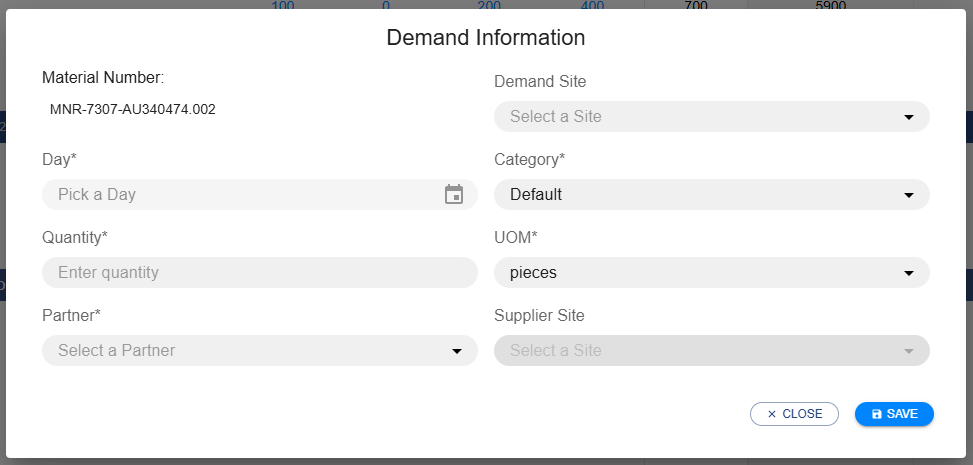
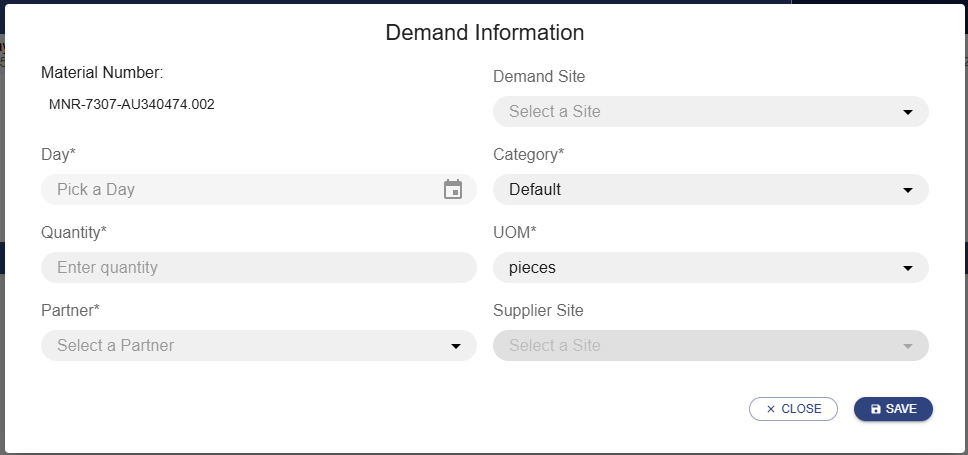
fix: consistency and clarity of user guide

diff --git a/frontend/src/features/material-details/components/DemandCategoryModal.tsx b/frontend/src/features/material-details/components/DemandCategoryModal.tsx
@@ -356,6 +356,7 @@ export const DemandCategoryModal = ({ open, mode, onClose, onSave, demand, deman
                         {mode === 'create' && (
                             <Button
                                 variant="contained"
+                                color="primary"
                                 sx={{ display: 'flex', gap: '.25rem' }}
                                 onClick={() => handleSaveClick(temporaryDemand)}
                             >

diff --git a/docs/user/User_Guide.md b/docs/user/User_Guide.md
@@ -7,7 +7,7 @@ This guide explains the overall masks that may be used by different roles.
 
 In the following the views are explained.
 
-## Material List View
+## Material list view
 
 ![Material List View](img/materials_list_view.png)
 The Material List View allows users to quickly search and filter through materials.
@@ -22,7 +22,7 @@ It includes the following:
 The user can find a specific material by using the search bar. The user can search through the materials using the material name or number. By default, it will be searching in any (incoming and outgoing) material direction. The user can choose a specific direction with the “Direction” dropdown.
 By using the “Direction” dropdown menu the user can chose to narrow their search to view incoming materials, outgoing materials or both. The “Direction” dropdown can also be used to list all incoming or outgoing materials by leaving the search bar empty.
 
-The user can further sort the materials by model number, material name, days of supply, direction and when they were last updated by clicking on the appropriate headers of the table.
+The user can further sort the materials by material number, material name, days of supply, direction and when they were last updated by clicking on the appropriate headers of the table.
 The user can select a material by clicking on it. This will open the Materials Detail View.
 
 ## Materials detail view
@@ -33,10 +33,10 @@ The Material Detail View allows users to see a detailed view of the selected mat
 
 It includes several expandable nested tables presented in the following order, based on the direction of the material:
 
-- Outgoing materials
+- When seeing material details for outgoing materials, the following summaries are shown:
   1. Production summary for the material
   2. Production summary at a specific location
-- Incoming materials
+- When seeing materials for the incoming direction, the following summaries are shown:
   1. Demand summary for the material
   2. Demand summary at a specific location
 
@@ -44,11 +44,11 @@ It includes several expandable nested tables presented in the following order, b
 
 Each overall or location specific summary table is separated into the following sections depending on the direction:
 
-- Outgoing materials
+- When seeing materials for the outgoing direction, the following summaries are shown:
   1. A production summary for the material
   2. A collapsible demand summary per customer
   3. A collapsible demand summary per specific location of a customer
-- Incoming materials
+- When seeing materials for the incoming direction, the following summaries are shown:
   1. A demand summary for the material
   2. A collapsible production summary per supplier
   3. A collapsible production summary per specific location of a supplier
@@ -134,7 +134,7 @@ To add a new production output, the user:
 2. Selects the partner to allocate the production to
 3. Enters the estimated time of completion
 4. Enters the quantity produced and the unit of measurement
-5. (Optional) Fills the customer order number, customer position number and supplier order number
+5. (optional) Fills the customer order number, customer position number and supplier order number
 6. Clicks the "save" button
 
 A notification in the top right of the user's screen will inform them, if saving was successful. Afterwards the user will see the newly added production output reflected in their detailed material overview.
@@ -150,13 +150,13 @@ To add a new delivery the user:
 1. Selects the partner for the delivery
 2. Selects the incoterms for the delivery
 3. Selects the quantity and unit of measurement
-4. Enters the tracking number
+4. (optional) Enters the tracking number
 5. Chooses the origin and destination site
 6. Selects the departure type
 7. Selects the date of departure
 8. Selects the arrival type
 9. Selects the date of arrival
-10. (Optional) Fills the customer order number, customer position number and supplier order number
+10. (optional) Fills the customer order number, customer position number and supplier order number
 11. Clicks the "save" button
 
 A notification in the top right of the user's screen will inform them, if saving was successful. Afterwards the user will see the newly added delivery reflected in their detailed material overview.
@@ -177,10 +177,10 @@ To add a new item, the user:
 
 1. Selects the partner
 2. Selects the quantity and unit of measurement
-3. Selects the stock location BPNS
-4. Selects the stock location BPNA
-5. (Optional) Fills the customer order number, customer position number and supplier order number
-6. (Optional) Checks the ‘is Blocked’ checkbox
+3. Selects the site of the stock location (BPNS)
+4. (optional) Selects the address of the stock location (BPNA)
+5. (optional) Fills the customer order number, customer position number and supplier order number
+6. (optional) Checks the ‘is Blocked’ checkbox
 7. Clicks the "save" button
 
 A notification in the top right of the user's screen will inform them, if saving was successful. Afterwards the user will see the newly added stock reflected in their detailed material overview.
@@ -211,11 +211,11 @@ After filling the mandatory data (see `*`), the user can send the notification:
 - Status (either `Open` or `Closed`, use close to close disruptions)
 - Effect (either `Increase` or `Decrease` of `Production` or `Demand`)
 - Start Date of Effect
-- End Date of Effect
-- Affected Sites Senders
-- Affected Material Numbers (only those applicable to the partner)
-- Affected Sites Recipient
-- Text
+- (optional) End Date of Effect
+- (optional) Affected Sites Senders
+- (optional) Affected Material Numbers (only those applicable to the partner)
+- (optional) Affected Sites Recipient
+- (optional) Text
 
 ## Catalog
 
